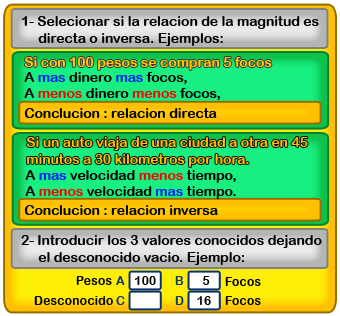
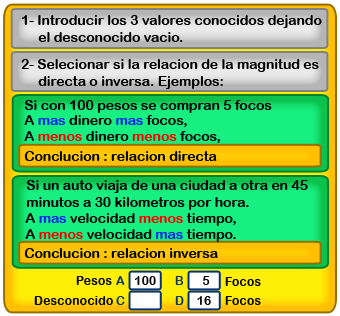
menu v77

diff --git a/scripts/porcent2.js b/scripts/porcent2.js
@@ -102,6 +102,7 @@ function clearCDIM(){
 }
 
 function borrar(){
+    loadVar = "";
     sectionPCmiddle.innerHTML = "";
     pResultPC.innerHTML = "";
     pResultPC.classList.remove(pResultPCReg);
@@ -519,34 +520,6 @@ function pcSDI(){
 }
 
 function pcCDIM(){
-    // XL = document.querySelector("#radPCLX");
-    // DL = document.querySelector("#radPCLD");
-    // IL = document.querySelector("#radPCLI");
-    // XC = document.querySelector("#radPCCX");
-    // DC = document.querySelector("#radPCCD");
-    // IC = document.querySelector("#radPCCI");
-    // XR = document.querySelector("#radPCRX");
-    // DR = document.querySelector("#radPCRD");
-    // IR = document.querySelector("#radPCRI");
-    
-    // winCDIMvalorA = document.querySelector("#winCDIMvalorA");
-    // winCDIMvalorB = document.querySelector("#winCDIMvalorB");
-    // winCDIMvalorC = document.querySelector("#winCDIMvalorC");
-    // winCDIMvalorW = document.querySelector("#winCDIMvalorW");
-    // winCDIMvalorY = document.querySelector("#winCDIMvalorY");
-    // winCDIMvalorZ = document.querySelector("#winCDIMvalorZ");
-
-    // XL.checked = false;
-    // XC.checked = false;
-    // XR.checked = false;
-
-    // winCDIMvalorA.classList.remove("resultColor");
-    // winCDIMvalorB.classList.remove("resultColor");
-    // winCDIMvalorC.classList.remove("resultColor");
-    // winCDIMvalorW.classList.remove("resultColor");
-    // winCDIMvalorY.classList.remove("resultColor");
-    // winCDIMvalorZ.classList.remove("resultColor");
-
     if(winCDIMvalorA.value > 0 && winCDIMvalorB.value > 0 && winCDIMvalorC.value > 0 && winCDIMvalorY.value > 0 && winCDIMvalorZ.value > 0){
         XL.checked = true;
         DL.disabled = true;
@@ -592,7 +565,7 @@ function pcCDIM(){
         
 
     }else{
-        pResultPC.innerHTML = "Introduce los 5 valores conocidos y deja vacia la incognita";
+        pResultPC.innerHTML = "Introduce 5 valores conocidos y deja vacia la incognita";
     };
     // if(inputRadioPCD.checked || inputRadioPCI.checked || inputRadioPCI.checked && inputRadioPCD.checked || inputRadioPCI.checked || inputRadioPCI.checked && inputRadioPCD.checked || inputRadioPCI.checked || inputRadioPCI.checked){
     //     let result = null;

diff --git a/scripts/porcent2DB.js b/scripts/porcent2DB.js
@@ -53,7 +53,7 @@ const RD3CDIMCalculadoraObj = {
     radiosC: "on",
     id: "calculadora_compuesta",
     titleFig: "Instrucciones",
-    imgFig: "../assets/calculadora_simple.png",
+    imgFig: "../assets/calculadora_compuesta.png",
     secMid: "sectionPCmiddleC",
 
     titlePorcentaje: "Calculadora Compuesta",
